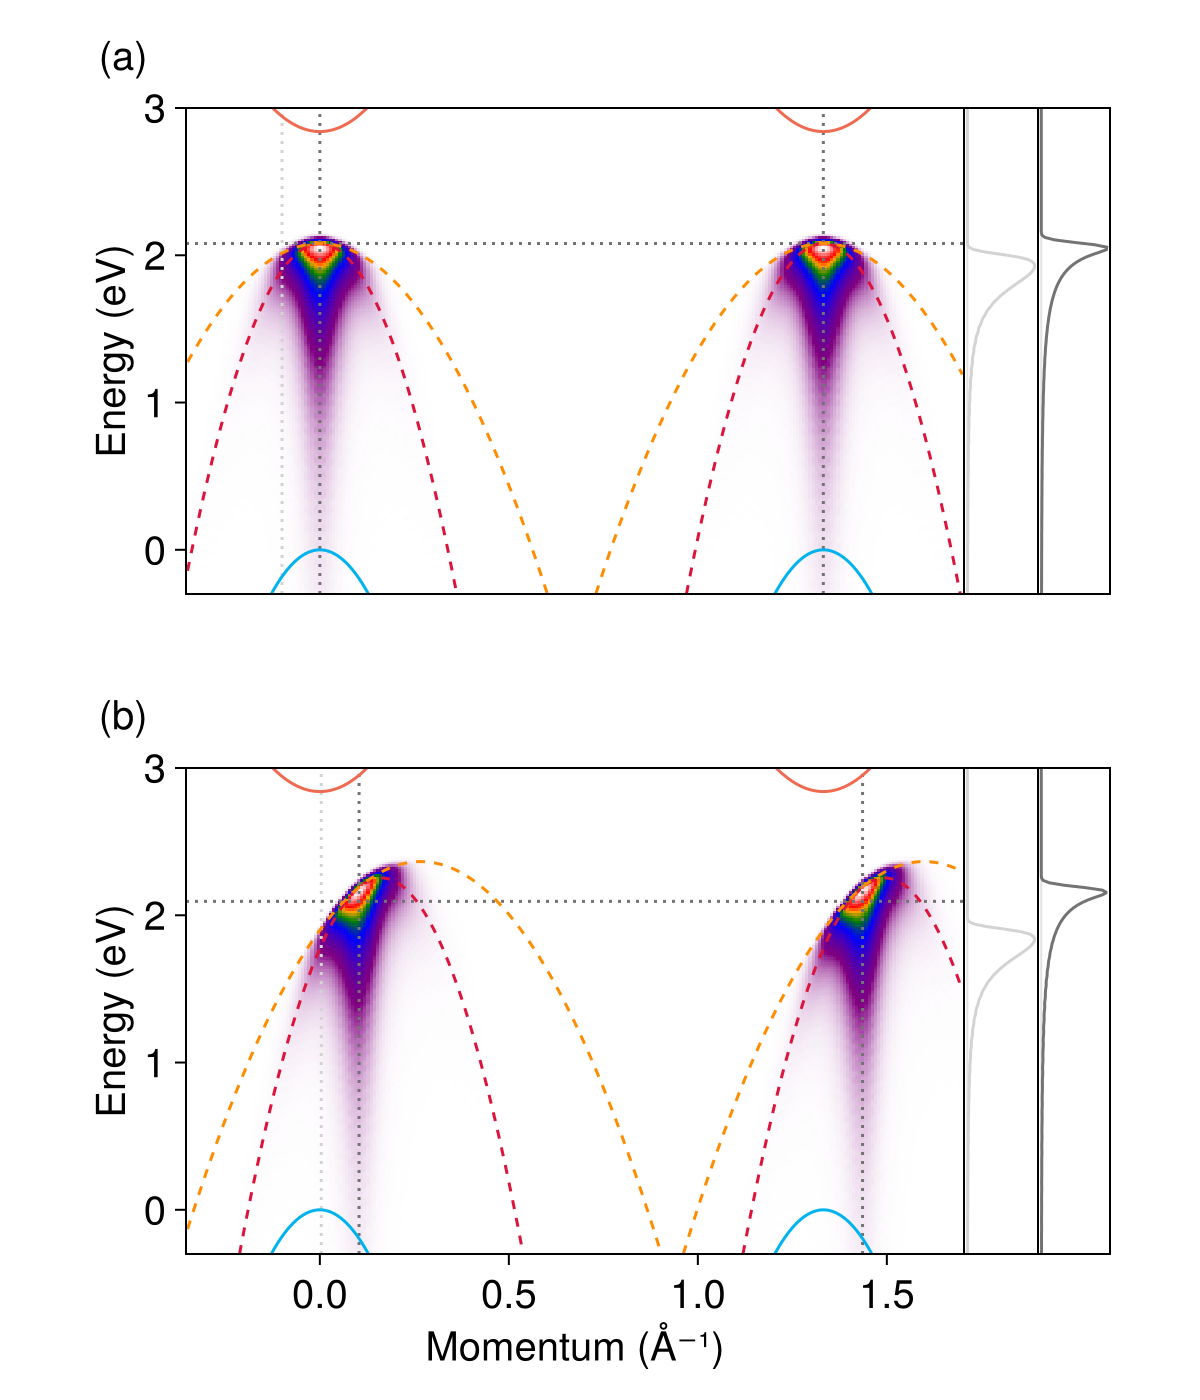
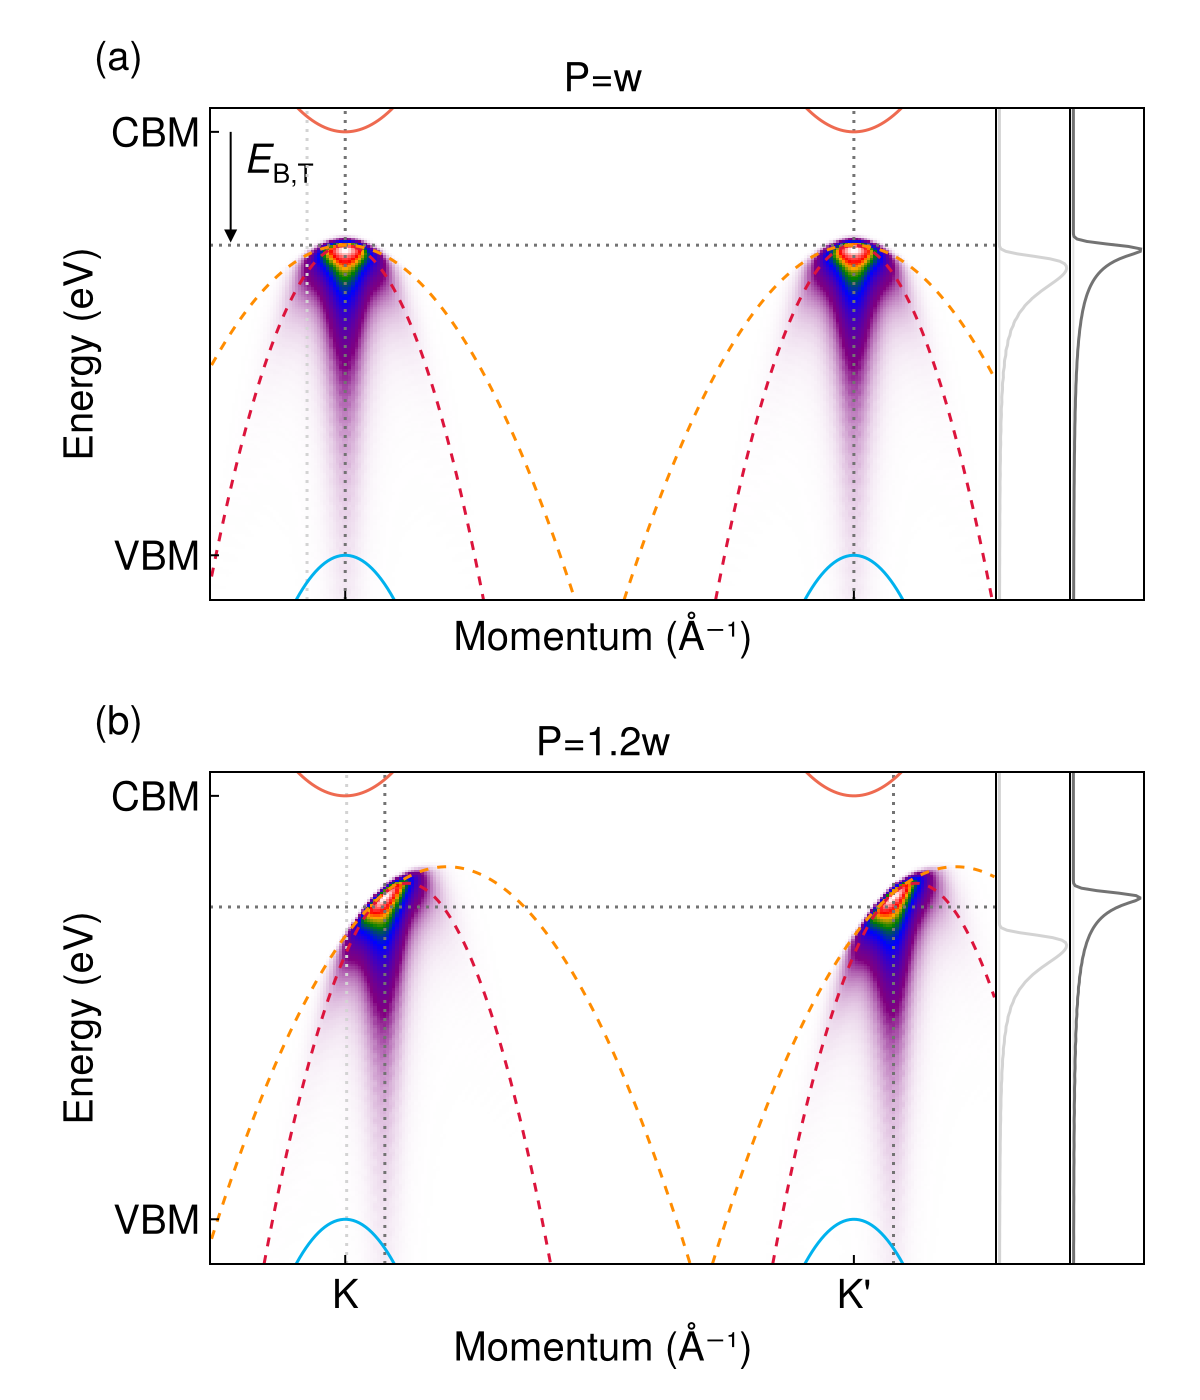
update data and scripts

diff --git a/simplified/README.md b/simplified/README.md
@@ -9,6 +9,6 @@
 # Figures for the paper
 
 - [Comparison between the ARPES signature of an exciton and the ehh trion](ehh-no-momentum-display.md)
-- [The ARPES image of a $\vb{P} \neq \vb{w}$ trion](ehh-shifted-momentum-display.md)
-- [The role of the wave function structural factor and the energy conservation relation in the ehh trion](ehh-momentum-conservation-factor.md)
+- ~~[The ARPES image of a $\vb{P} \neq \vb{w}$ trion](ehh-shifted-momentum-display.md)~~ Now combined with the last figure.
+- [The role of the wave function structural factor and the energy conservation relation in ~~the ehh trion~~ both the ehh and eeh trion modes](ehh-momentum-conservation-factor.md)
 - [The ARPES image of negative trions, zero or finite momentum](eeh-display.md)

diff --git a/simplified/ehh-no-momentum-display.md b/simplified/ehh-no-momentum-display.md
@@ -18,3 +18,8 @@ This is done in [`ehh-display-very-compact.jl`](ehh-display-very-compact.jl).
 The output is shown below:
 
 ![](ehh-display-very-compact.png)
+
+To make the frequency positions of the signatures more clear,
+we use [`ehh-display-very-compact-2.jl`](ehh-display-very-compact-2.jl) to plot 
+
+![](ehh-display-very-compact-2.png)
